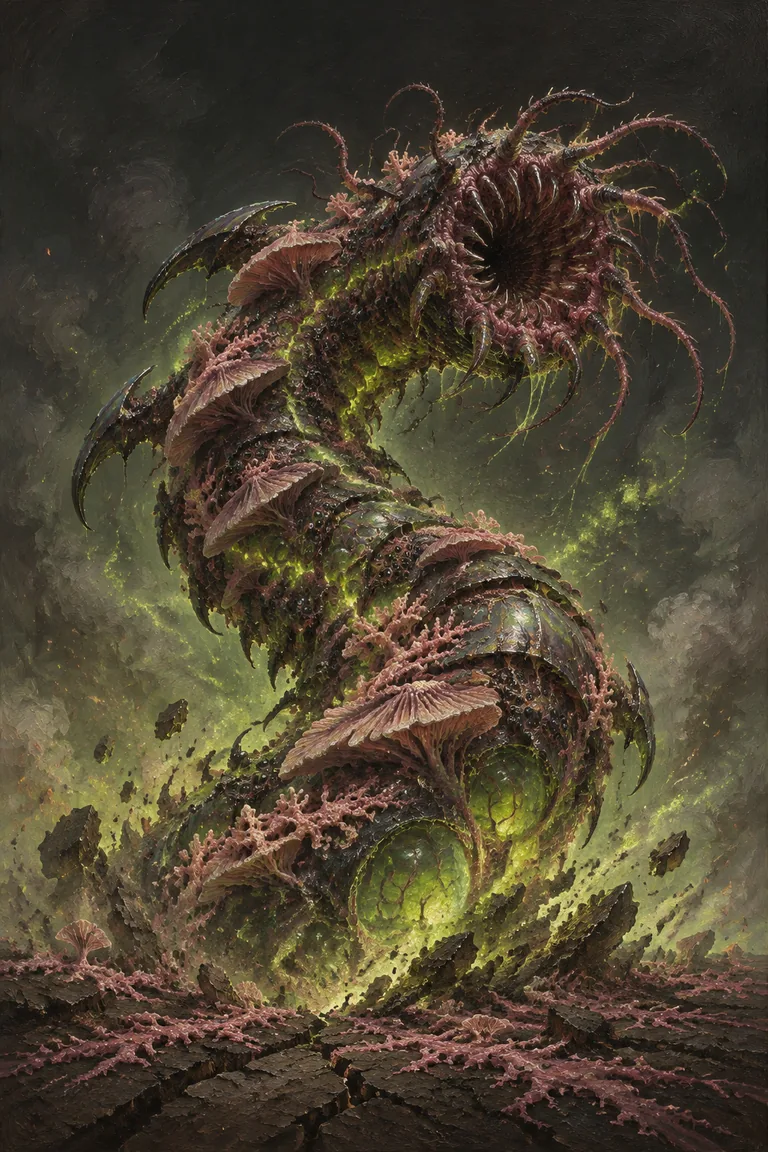
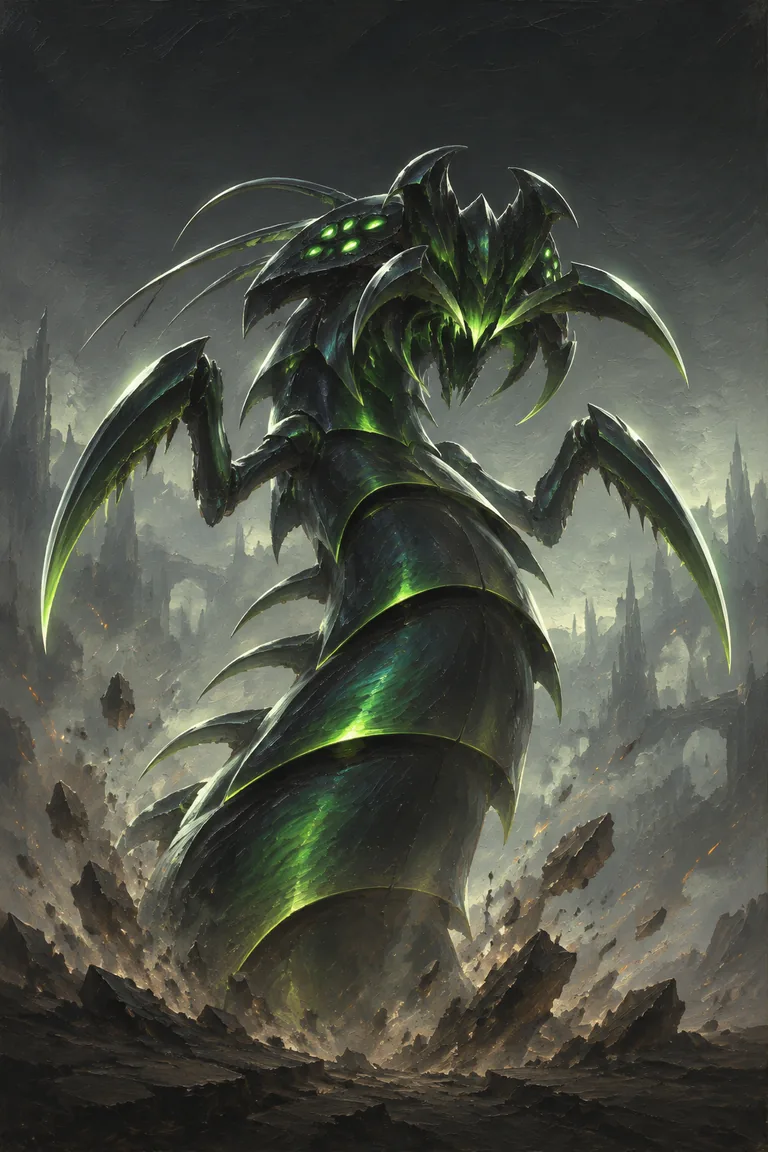
Brood art redesign: sleek glossy beetle-carapace predators replace fungal-coral look (16 cards + frame)
Researched creature-design principles (silhouette first, sharp shape language,
minimal surface detail, foreground/background separation); new Brood bible and
subjects; 11 on sunburst, 5 provisional on gpt-image-1-mini after credits ran low.

Claude-Session: https://claude.ai/code/session_01BpmvtTHERFYrWxnGNyV36z

diff --git a/src/shared/cards.ts b/src/shared/cards.ts
@@ -133,63 +133,63 @@ export const CARDS: CardDef[] = [
   c({ id: 'b_skitter', name: 'Skitterling Tide', faction: 'brood', cost: 1, power: 2, nerve: 2, cls: 'Swarm', arch: ['tide'],
     keywords: ['swarm'], text: 'Swarm: stacks up to 5.',
     niche: 'Bodies for flanking bonuses, or one huge stacked swarm.',
-    art: 'a tide of small many-legged creatures pouring over a ridge, dozens of glistening black eyes' }),
+    art: 'a fast swarm of small sleek beetle-like hunters racing over a ridge toward the viewer, one in sharp focus in front, the rest silhouettes trailing behind, glowing green eyes' }),
   c({ id: 'b_pod', name: 'Sporemother Pod', faction: 'brood', cost: 2, power: 3, nerve: 0, range: 0, cls: 'Structure', arch: ['tide'],
     keywords: ['fearless', 'hatch'], text: 'Each round: hatches a Skitterling next to it (max 3 alive).',
     niche: 'A nest to protect; kill it early or drown in bugs.',
-    art: 'a pulsing fleshy spore pod rooted in cracked earth, veins of organic creep spreading outward, spores drifting' }),
+    art: 'as the sole dominant central subject, a tall armoured alien hive-spire like a giant closed seed of glossy carapace plates rooted in the ground, its plates parting along glowing green seams, small sleek hatchlings emerging' }),
   c({ id: 'b_mimic', name: 'Skinwalker Mimics', faction: 'brood', cost: 2, power: 2, nerve: 3, cls: 'Swarm', arch: ['tide'],
     keywords: ['burst'], text: 'Last Breath: bursts into 2 Skitterlings.',
     niche: 'Breaking it only makes more of them.',
-    art: 'three tall thin humanoid silhouettes standing upright like soldiers in a fog bank, wearing tattered olive greatcoats and stolen red-striped helmets over fungal chitin bodies, far too many joints, their faces split open into mandibles, backlit, deeply uncanny' }),
+    art: 'three tall thin alien hunters standing upright in fog, wearing torn olive greatcoats and stolen red-striped helmets over glossy black carapace bodies, far too many joints, glowing green eye slits under the helmets, backlit, deeply uncanny' }),
   c({ id: 'b_pack', name: 'Gnasher Pack', faction: 'brood', cost: 2, power: 1, nerve: 3, cls: 'Beast', arch: ['tide', 'apex'],
     keywords: ['pack'], text: 'Pack: +1 for each adjacent ally.',
     niche: 'Wants to be buried in the middle of the swarm.',
-    art: 'a pack of five lean six-legged hound-like beasts running low and fast together in a tight hunting formation, seen from the side, jaws open, motion and dust, fungal growths along their spines' }),
+    art: 'a pack of five sleek six-legged panther-like alien hounds running low and fast together in a hunting formation, seen from the side, glossy armoured bodies, glowing green eyes, dust streaming behind' }),
   c({ id: 'b_grub', name: 'Broodling Grub', faction: 'brood', cost: 1, power: 1, nerve: 3, cls: 'Beast', arch: ['apex'],
     keywords: ['grow'], text: 'Each round: grows +1 Power (max +4).',
     niche: 'Play early, hide it behind the swarm, let it become a monster.',
-    art: 'a fat pale larval creature curled on the ground, translucent skin showing something large forming inside' }),
+    art: 'a young armoured larva curled protectively on a rock, glossy segmented plates, through a translucent window in its shell a glowing green silhouette of the predator it will become' }),
   c({ id: 'b_lashworm', name: 'Lashworm Burrower', faction: 'brood', cost: 2, power: 2, nerve: 3, range: 2, cls: 'Beast', arch: ['apex', 'synapse'],
     keywords: ['infiltrate'], text: 'Infiltrate: may surface 2 hexes from your units.',
     niche: 'Pops up behind their line to hit their backline.',
-    art: 'a single enormous segmented worm erupting vertically out of cracked earth, long sinuous serpentine body rising high into the frame, its gaping ring-shaped mouth fringed with barbed lashing tendrils, rocks and soil exploding outward, seen from below' }),
+    art: 'a single enormous armoured serpent-worm erupting vertically from cracked earth, smooth glossy segmented plates, a crown of blade-like mandibles opening like a flower, rocks exploding outward, seen from below' }),
   c({ id: 'b_spitter', name: 'Acidbelly Spitter', faction: 'brood', cost: 3, power: 2, nerve: 3, range: 3, cls: 'Beast', arch: ['apex'],
     keywords: ['lethal'], text: 'Lethal: its acid deals damage, not Shock.',
     niche: 'Kills the unbreakables: structures, officers, armour.',
-    art: 'a bloated six-legged beast arching its back and spewing a glowing arc of acid, metal barricades melting' }),
+    art: 'a sleek wasp-like alien artillery beast reared up on four legs, abdomen arched forward, launching a glowing green bolt of acid in a bright arc' }),
   c({ id: 'b_ravager', name: 'Scythe Ravager', faction: 'brood', cost: 4, power: 4, nerve: 4, cls: 'Beast', arch: ['apex', 'tide'],
     keywords: ['cleave'], text: 'Cleave: strikes every adjacent enemy.',
     niche: 'Drop it into the middle of their line.',
-    art: 'a hulking armored predator with scythe forelimbs mid-leap over an overturned vehicle' }),
+    art: 'a sleek armoured mantis-like predator mid-leap with huge blade forelimbs raised, landing on an overturned riveted olive vehicle' }),
   c({ id: 'b_gorgemaw', name: 'The Gorgemaw', faction: 'brood', cost: 6, power: 7, nerve: 5, cls: 'Beast', arch: ['apex'],
     keywords: ['drain'], text: 'Drain: heals 2 every time it strikes.',
     niche: 'The apex: wins a straight fight against anything.',
-    art: 'a colossal beast that is mostly mouth and rows of teeth, swallowing a riveted olive tank whole, colonial soldiers in olive greatcoats and red-striped steel helmets fleeing in the foreground' }),
+    art: 'a colossal armoured alien behemoth with a vast jaw of blade-like teeth opening wide, smooth glossy plates, towering over colonial soldiers in olive greatcoats and red-striped steel helmets fleeing in the foreground' }),
   c({ id: 'b_synapse', name: 'Thoughtstalk Warden', faction: 'brood', cost: 3, power: 2, nerve: 5, cls: 'Synapse', arch: ['synapse', 'tide'],
     keywords: ['synapse'], text: 'Synapse: adjacent Brood are Fearless.',
     niche: 'Makes the swarm around it unbreakable. Kill it and they can panic again.',
-    art: 'a tall hunched creature with a swollen glowing translucent cranium, psychic threads linking it to smaller beasts' }),
+    art: 'a tall elegant alien conductor creature with a smooth glowing translucent crest, thin luminous green psychic threads linking it to sleek hunters around it' }),
   c({ id: 'b_howler', name: 'Throat-Sac Howler', faction: 'brood', cost: 2, power: 2, nerve: 3, cls: 'Beast', arch: ['synapse'],
     keywords: ['terror'], text: 'Terror: +2 against units at half Nerve or less.',
     niche: 'Finishes off wavering units.',
-    art: 'a gaunt eyeless beast with a swollen split throat sac screaming, visible sonic distortion rings' }),
+    art: 'a lean alien beast with its armoured throat plates flared wide open like a frill, screaming, visible rings of sonic distortion bursting outward' }),
   c({ id: 'b_leech', name: 'Nightmaw Leech', faction: 'brood', cost: 3, power: 2, nerve: 3, range: 2, cls: 'Beast', arch: ['synapse', 'tide'],
     keywords: ['infect'], text: 'Infect: an enemy it breaks rises as your Skitterling.',
     niche: 'Turns their losses into your swarm.',
-    art: 'an eel-like flying horror with a lamprey mouth latching onto a screaming soldier, colonial soldiers in olive greatcoats and red-striped steel helmets scattering' }),
+    art: 'a sleek eel-like flying alien predator with glowing green eyes swooping down onto colonial soldiers in olive greatcoats and red-striped steel helmets who scatter below' }),
   c({ id: 'b_overseer', name: 'Overmind Aspect', faction: 'brood', cost: 5, power: 3, nerve: 5, range: 2, cls: 'Synapse', arch: ['synapse'],
     keywords: ['synapse', 'overmind'], text: 'Synapse. Linked Brood strike +1.',
     niche: 'The army-wide upgrade; the enemy must go through the swarm to reach it.',
-    art: 'an enormous floating brain-beast trailing nerve tendrils, crowned with glowing nodes, a swarm below moving in unison' }),
+    art: 'an enormous floating alien sovereign with a smooth glowing crown-like crest and long trailing tendrils, a sleek swarm moving in perfect unison beneath it' }),
   c({ id: 'b_pheromone', name: 'Frenzy Pheromone', faction: 'brood', cost: 2, power: 0, nerve: 0, cls: 'Tactic', arch: ['tide', 'apex'],
     keywords: [], tactic: { kind: 'powerArea', n: 2, target: 'ally' }, text: 'Target ally and adjacent allies strike +2 this round.',
     niche: 'Swarm-wide surge for the decisive round.',
-    art: 'close-up of a swollen glowing spore bladder bursting open, releasing a vast luminous green spore cloud that fills the sky, dark silhouettes of beasts below rearing up with glowing eyes' }),
+    art: 'a sleek alien beast throwing back its head and releasing a vast luminous green cloud of spores into the sky, the hunters around it rearing up with glowing eyes' }),
   c({ id: 'b_scream', name: 'Psychic Scream', faction: 'brood', cost: 2, power: 0, nerve: 0, cls: 'Tactic', arch: ['synapse'],
     keywords: [], tactic: { kind: 'scream', n: 3, target: 'ally' }, text: 'Enemies next to target ally take 3 Shock.',
     niche: 'Shatters whatever is pressed against your swarm.',
-    art: 'a synapse beast with its glowing cranium flaring, a visible shockwave of green psychic force knocking colonial soldiers in olive greatcoats and red-striped steel helmets to their knees' }),
+    art: 'a synapse creature with its glowing crest flaring, a visible shockwave of green psychic force rippling outward and knocking colonial soldiers in olive greatcoats and red-striped steel helmets to their knees' }),
 
   // ═══════════════ THE HUSH: "Unseen" ═══════════════
   // Faction rules: CLOAK: Hush units arrive cloaked; only adjacent enemies can strike them.
@@ -262,7 +262,7 @@ export const CARDS: CardDef[] = [
     art: 'as the sole dominant central subject, a fortified command bunker of riveted plate and sandbags on a hill, radio masts and searchlights' }),
   c({ id: 'b_hq', name: 'Brood Heart', faction: 'brood', cost: 0, power: 0, nerve: 0, range: 0, cls: 'HQ', arch: [],
     keywords: ['hq'], text: 'Your army spreads out from here.', niche: '',
-    art: 'as the sole dominant central subject, a colossal pulsing heart-hive mound of flesh and chitin, birthing sacs glowing, tendrils spreading across the ground' }),
+    art: 'an alien architecture landscape with NO creatures in the foreground: a colossal hive citadel of tall curved black-green carapace towers and pointed arches like a cathedral grown from beetle shell, glowing green seams and windows, rising out of mist, seen from far away, tiny flying shapes circling its spires' }),
   c({ id: 'v_hq', name: 'Veil Nexus', faction: 'hush', cost: 0, power: 0, nerve: 0, range: 0, cls: 'HQ', arch: [],
     keywords: ['hq'], text: 'Your army spreads out from here.', niche: '',
     art: 'as the sole dominant central subject, an ancient dark-teal stone temple gate half-dissolved into violet fog, monumental architecture with tall pointed arches and a violet-glowing doorway, no people in the foreground, two tiny masked sentinels standing at the gate' }),

diff --git a/scripts/gen-art.ts b/scripts/gen-art.ts
@@ -20,7 +20,7 @@ export const STYLE = 'Traditional oil painting on textured canvas, thick impasto
 export const NEGATIVE = 'No text, no letters, no numbers, no logos, no watermark, no signature, no card frame or border, no UI, no multiple panels, no cropped heads, no cartoon or anime style, no photographic realism, no 3D render look, no real-world flags or insignia.';
 export const BIBLE: Record<Faction, string> = {
   concord: 'Faction look (human colonial militia): olive-drab wool greatcoats over dented gunmetal chest plates, deep brimmed steel helmets with one red signal stripe down the crown, round brass-rimmed rebreather masks with corrugated hoses, red cloth armbands, cream stenciled unit numbers; long bolt-action rail-rifles with brass coils; vehicles of riveted olive plate with cream stencils and red chevrons, smokestacks, searchlights. Low sodium-orange light, dusty haze. Palette olive, rust, khaki, cream; signal red is the only accent. Mood stoic, desperate, heroic, poster-like low angle.',
-  brood: 'Faction look (alien bio-swarm, one organism in many bodies): wet black-oil chitin with an iridescent sheen, overgrown with fungal gills and coral-like growths in flesh-pink, glowing bile-green spore sacs and veins, clusters of small glossy black eyes, dark hooked glass-like spurs and mandibles instead of bone, drifting green spores; every creature shares the same fungal-coral growth pattern. Ground of cracked earth covered in pink fungal creep. Sickly green under-light. Palette oil-black, flesh-pink, grey; bile green is the only accent. Mood overwhelming, predatory, humid; asymmetric many-limbed silhouettes, no straight lines.',
+  brood: 'Faction look (sleek alien apex-predator swarm, beautiful and lethal, NOT gross): glossy hard jewel-beetle carapace, iridescent black with deep green sheen, made of a few large smooth armour plates with clean edges, thin venom-green glowing seams between plates and clusters of glowing venom-green eyes, blade-like forelimbs and sharp elegant spines; anatomy of mantis, wasp, panther and serpent; strong simple sculptural forms, minimal surface detail, no slime, no fungus, no coral, no flesh, no gore, no tumours. Strong foreground-background separation: the dark glossy creature is sharply rim-lit in pale green-white and stands out against a lighter, hazy, softly out-of-focus alien dusk background of misty spires. Palette black-green, steel grey haze; venom green is the only accent. Mood predatory, fast, elegant, terrifying.',
   hush: 'Faction look (secretive ritual stealth culture): layered dark-teal wrap cloaks and hoods, smooth expressionless porcelain-white masks with thin violet-glowing eye slits and a glowing violet kintsugi-style repaired crack running across every mask, no visible skin; black glass and obsidian devices with thin violet light-lines, curved black-glass blades; figures half-dissolving into shadow or with doubled after-images. Cool moonlight, heavy ground fog. Palette teal, ink black, slate; violet glow is the only accent. Mood uncanny, quiet; mostly shadow with thin rim light.',
 };
 
@@ -31,12 +31,18 @@ async function gen(id: string) {
   const d = CARD_BY_ID[id];
   if (!d) throw new Error('unknown card ' + id);
   const prompt = `${d.art}. ${BIBLE[d.faction]} ${STYLE} ${NEGATIVE}`;
-  const res = await fetch('https://openrouter.ai/api/v1/images', {
-    method: 'POST',
-    headers: { Authorization: `Bearer ${KEY}`, 'Content-Type': 'application/json' },
-    body: JSON.stringify({ model, prompt, size: '1024x1536', n: 1 }),
-  });
-  const j = await res.json() as { data?: { b64_json: string }[]; usage?: { cost?: number }; error?: unknown };
+  let res: Response, j: { data?: { b64_json: string }[]; usage?: { cost?: number }; error?: unknown };
+  for (let attempt = 0; ; attempt++) {
+    res = await fetch('https://openrouter.ai/api/v1/images', {
+      method: 'POST',
+      headers: { Authorization: `Bearer ${KEY}`, 'Content-Type': 'application/json' },
+      body: JSON.stringify({ model, prompt, size: '1024x1536', n: 1 }),
+    });
+    j = await res.json();
+    // low balance: OpenRouter reserves credit per in-flight request; wait for the last one to settle
+    if (res.status === 402 && JSON.stringify(j).includes('in_flight') && attempt < 6) { await new Promise((r) => setTimeout(r, 15000)); continue; }
+    break;
+  }
   if (!res.ok || !j.data?.[0]) throw new Error(`${id}: ${res.status} ${JSON.stringify(j.error ?? j).slice(0, 300)}`);
   writeFileSync(`${outDir}/${id}.png`, Buffer.from(j.data[0].b64_json, 'base64'));
   writeFileSync(`${outDir}/${id}.prompt.txt`, `model: ${model}\n\n${prompt}\n`);

diff --git a/scripts/gen-ui.ts b/scripts/gen-ui.ts
@@ -19,7 +19,7 @@ const BADGE = (look: string) => `A single game UI badge centered in the frame, o
 
 const ITEMS: Record<string, { prompt: string; size: string }> = {
   frame_concord: { size: '1024x1536', prompt: FRAME('riveted gunmetal and blackened steel plates with brass trim and rivets, olive-drab enamel panels, chipped red signal-stripe chevrons at the corners, stencil-scratched, oil and soot stains, industrial war-machine aesthetic.') },
-  frame_brood: { size: '1024x1536', prompt: FRAME('organic alien border grown from wet black-oil iridescent chitin plates, overgrown with flesh-pink fungal gills and coral-like growths, small glowing bile-green spore sacs at the corners, dark hooked glass-like spurs, slimy and asymmetric yet still a clean rectangular frame.') },
+  frame_brood: { size: '1024x1536', prompt: FRAME('sleek alien border made of glossy iridescent black-green beetle-carapace plates with clean sharp edges, thin glowing venom-green seams between the plates, elegant curved blade-like spines at the corners, polished and sculptural, minimal fine detail, no slime, no fungus.') },
   frame_hush: { size: '1024x1536', prompt: FRAME('smooth black obsidian and dark-teal lacquer border with cracked white porcelain inlays repaired with thin glowing violet kintsugi seams, subtle violet light-lines, elegant, quiet, ritualistic.') },
   badge_cost: { size: '1024x1024', prompt: BADGE('A round heavy brass-and-bronze command medallion coin with an engraved, notched rim and tiny rivets, warm gold highlights, aged patina.') },
   badge_power: { size: '1024x1024', prompt: BADGE('A heater-shaped iron battle shield badge with a riveted steel rim, crossed sword blades engraved behind it, the center plate deep blood-red enamel, chipped and scarred.') },

diff --git a/docs/ART_LOG.md b/docs/ART_LOG.md
@@ -178,3 +178,31 @@ No copyrighted reference images were downloaded or used as inputs.
   - Resolve as banner pips.
   - Menu over a painted triptych.
   - Painted dirt ground texture on the board.
+
+## brood2: full Brood redesign (16 cards + frame)
+- **Feedback:** the fungal-coral Brood "look disgusting… like cancer coral". They should look *cool*, with less fine detail and more foreground/background separation.
+- **Research** (creature-design principles):
+  - **Silhouette first:** identifiable from the outline in one second.
+  - **Shape language:** sharp triangles read as dangerous; lumpy organic forms read as disease.
+  - **Function drives form:** plates and blades imply a predator.
+  - **Thumbnail with shapes before detail.**
+  - The cool-alien canon (biomechanical xenos, insectoid armour, Monster Hunter-style grounded animal anatomy) shares glossy hard plates, big simple shapes, predatory anatomy and a glowing accent.
+- **Sources:**
+  - https://creativebloq.com/how-to/16-ways-to-draw-better-creatures
+  - https://www.creativebloq.com/features/15-tips-for-better-creature-design
+  - https://ccs.thegnomonworkshop.com/workshops/introduction-to-creature-design-volume-1
+  - https://skillselion.com/skills/omer-metin/skills-for-antigravity/creature-design
+- **New bible (v2):**
+  - Body: glossy jewel-beetle carapace (black-green iridescent) made of a few large smooth plates, with venom-green glowing seams and eyes.
+  - Anatomy: mantis, wasp, panther and serpent.
+  - Detail: minimal surface detail, explicitly "NOT gross".
+  - Separation: the creature is rim-lit against a lighter, hazy, out-of-focus background.
+  - Every Brood subject was rewritten in the same terms (no fleshy, dripping or fungal wording).
+- **Pilot (sunburst):** Ravager, Skitterling and Warden were all approved immediately. Sleek, readable silhouettes with clean separation. A night-and-day improvement.
+- **Batch (sunburst):** Pod (seed-spire), Mimics (stolen helmets), Pack (side-view hounds), Grub, Lashworm, Gorgemaw, Leech and Pheromone were all approved. The new `frame_brood` (glossy beetle plates, green seams) was also approved.
+- **Credits:** the OpenRouter balance fell to about $1.1. OpenRouter then refused sunburst requests because their *maximum* cost exceeded the balance (`weight_exceeds_budget`), and earlier `in_flight_budget_exhausted` errors were resolved with a wait-and-retry.
+- **Fallback (`gpt-image-1-mini`, $0.051 each):**
+  - Spitter, Howler, Overmind, Scream and Brood Heart were approved **provisionally**. They are flatter and darker, with less painterly texture, and some drift toward a xenomorph-like elongated head.
+  - Brood Heart needed a retry. Mini ignored "no creatures", so a creature still stands in front of the citadel.
+
+**TODO when credits are topped up:** redo b_spitter, b_howler, b_overseer, b_scream and b_hq on `gpt-image-2.6-sunburst`, using the subjects already in `cards.ts`.

diff --git a/docs/ART_DIRECTION.md b/docs/ART_DIRECTION.md
@@ -60,19 +60,24 @@ Human colonial militia from a poor, industrial frontier world.
 - **Mood:** stoic, disciplined, desperate and heroic. Poster-like low angles and diagonal
   searchlight rays.
 
-### Vhorr Brood: "Swarm & evolve"
-A bio-swarm, one organism in many bodies.
-- **Anatomy:** wet **black-oil chitin** with an iridescent sheen, **overgrown with fungal gills and
-  coral-like growths in flesh-pink**, the same growth pattern on every creature. **Bile-green
-  glowing spore sacs and veins**, clusters of small glossy black eyes, **dark hooked glass-like spurs
-  and mandibles** (no bone-white scythes). This motif was chosen in the pilot so the swarm doesn't read as Tyranids or Zerg.
-- **Synapse creatures:** swollen translucent craniums glowing green, linked to the others
-  by faint green psychic threads.
-- **Environment:** organic creep of purple veins over cracked earth, spore mist, dripping ichor.
-- **Light & palette:** sickly green under-light and back-light; purple, black,
-  flesh-pink, with bile-green as the only accent.
-- **Mood:** overwhelming, predatory, humid. Asymmetric silhouettes with many limbs and no
-  straight lines.
+### Vhorr Brood: "Swarm & evolve" (v2, redesigned)
+A sleek alien apex-predator swarm: **beautiful and lethal, never gross.** The v1 fungal-coral look
+read as disease ("cancer coral"), so it was replaced. See ART_LOG `brood2`.
+- **Anatomy:** glossy hard **jewel-beetle carapace**, iridescent black with a deep green sheen,
+  made of a few **large smooth armour plates** with clean edges. Thin **venom-green glowing seams**
+  and clusters of glowing green eyes. **Blade-like forelimbs** and sharp elegant spines.
+  Anatomy borrows from the mantis, wasp, panther and serpent.
+- **Design rules** (from creature-design research):
+  - **Silhouette first:** the creature must be identifiable from its outline in one second.
+  - **Shape language:** sharp, triangular, sleek forms that read as dangerous.
+  - **Function drives form:** blades, plates, hunting anatomy.
+  - **Minimal surface detail:** no slime, fungus, coral, flesh, gore or tumours.
+- **Separation:** the dark glossy creature is rim-lit pale green-white and stands out against a
+  lighter, hazy, softly out-of-focus alien dusk of misty spires.
+- **Palette:** black-green with steel-grey haze; venom green is the only accent.
+  **Mood:** predatory, fast, elegant, terrifying.
+- **Avoid** the xenomorph "smooth elongated banana head" and the Tyranid purple-with-bone-scythes look.
+  Keep heads crested, mandibled or insectoid.
 
 ### The Hush: "Unseen"
 A secretive, ritualised stealth culture.
